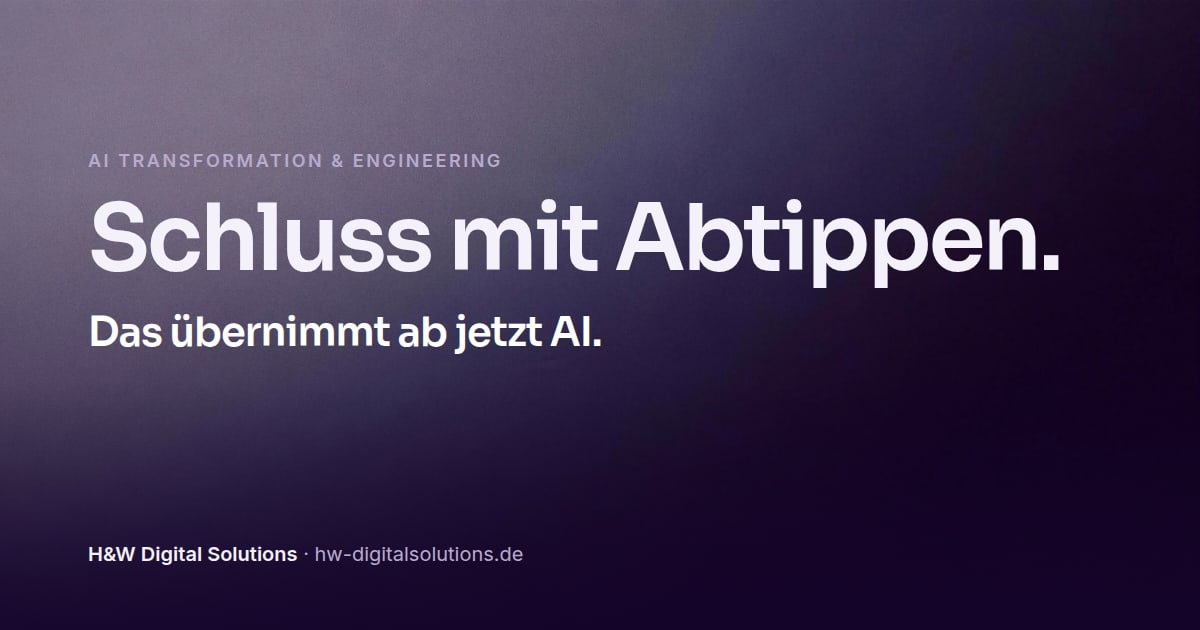
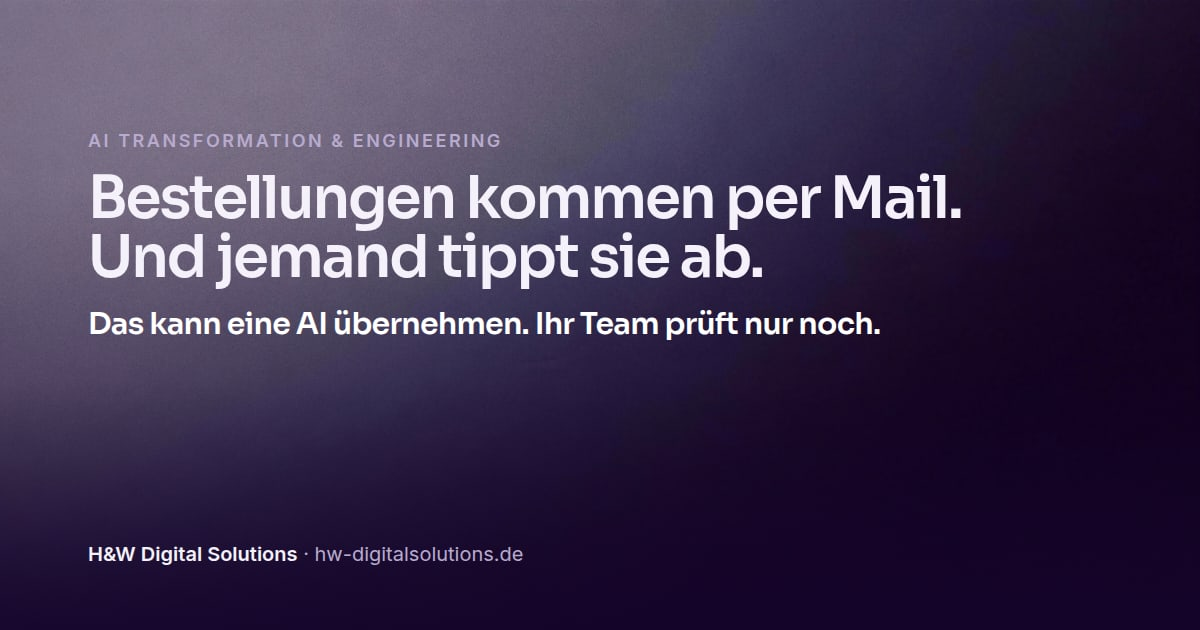
Start page copy: human voice, concrete scene in the hero
Founder feedback: the start page must sound human, not like AI
callouts. Hero rewritten as a scene from the business: orders arrive
by mail and someone types them in; an AI can take that over and the
team only checks. Objection hooks and the promise lede become whole
sentences instead of two-beat slogans; the closing CTA and the contact
lede say plainly what happens in the 30 minutes. Software teaser as a
sentence. Copy rhythm rule documented with the patterns taken from
Systango, Attio and Sana and the founders' correction on slogans.
Hero headline sized to hold two lines on desktop; OG image re-rendered.

Claude-Session: https://claude.ai/code/session_01WNik2r3KY3SBBWXV1w1yzj

Changed region(s): [[0.0617, 0.2111, 0.8942, 0.4524], [0.0617, 0.4825, 0.74, 0.573]]

diff --git a/hw-site/src/data/content.ts b/hw-site/src/data/content.ts
@@ -18,13 +18,18 @@ export const hero = {
   // Hook v6 (2026-09-18, Gründer: „viel kürzer, nicht alle Pain Points auf
   // einmal“): ein Schmerz, drei Wörter. Abtippen von Hand kennt jeder Betrieb;
   // „Schluss mit“ ist die Figur der Gründer (Souveränität).
-  headline: "Schluss mit Abtippen.",
+  // Hook v7 (2026-09-18, Gründer: „menschlicher, keine klassischen AI-Formulierungen,
+  // die wie ein Callout klingen; ‚dort, wo Ihr Team von Hand überträgt‘ ist künstlich
+  // unspezifisch“): eine konkrete Szene aus dem Betrieb, so gesagt, wie man es sagt.
+  headline: "Bestellungen kommen per Mail.\nUnd jemand tippt sie ab.",
   // Claim v2 (2026-09-18): Sieger des Claim-Panels für diese Headline; das
   // englische Motto „From Process to Production.“ war den Gründern zu corporate.
   // Claim v3: löst die Headline auf, ohne Abstraktum.
-  claim: "Das übernimmt ab jetzt AI.",
+  // Claim v4: die Rolle danach, ohne Parole.
+  claim: "Das kann eine AI übernehmen. Ihr Team prüft nur noch.",
   // v5 (2026-09-18): ein Satz, der Win zum Hook („der eine Ablauf“ statt Meeting-Gerede).
-  description: "Wir bauen AI dort ein, wo Ihr Team heute von Hand überträgt: Bestellungen, Angebote, Rechnungen. Und bleiben, bis es läuft.",
+  // v6: konkret, wo und wie; kein „dort, wo“.
+  description: "Wir bauen sie in Ihr System ein, mit Ihren Daten und Ihren Regeln. Und wir bleiben, bis es im Alltag läuft.",
   primaryCta: { label: "Kostenloses Erstgespräch", href: "/kontakt" },
   secondaryCta: { label: "So arbeiten wir", href: "/vorgehen" },
 } as const;
@@ -45,10 +50,12 @@ export const expertise = {
 } as const;
 
 export const promise = {
-  short: "Wir finden nicht nur Ihre AI Use Cases. Wir setzen sie um.",
+  // v10 (2026-09-18, Copy-Muster nach Systango: Diagnose als Frage, ohne Jargon wie „Use Cases“).
+  short: "Sie haben AI im Haus. Warum merkt der Alltag nichts davon?",
   // Einordnung ohne Zahlen. Recherche und Quellen: .agents/product-marketing.md,
   // Abschnitt „Problems & Pain Points“ (v8, 2026-09-18). Kurzfassung v9.
-  lede: "Es scheitert selten am Modell. Vier Einwände, vier Antworten.",
+  // v11 (Gründer: menschlicher, keine Callout-Sätze).
+  lede: "Die meisten Betriebe haben inzwischen Tools. Was fehlt, ist ein Ablauf, der damit läuft.",
   // Vier Einwände in Kundensprache: Zitat, Hook, ein Satz, passender CTA.
   // Die Senior-Zusage steht als eigene Szene darüber (`expertise`).
   // `data`: ein belegter Zahlenpunkt je Einwand (v11, Gründer: „Zahlen geben
@@ -59,32 +66,32 @@ export const promise = {
   objections: [
     {
       quote: "Wir nutzen doch schon AI.",
-      hook: "Einzelne nutzen AI. Ihr Betrieb nicht.",
-      text: "Alle machen es anders, niemand misst den Nutzen. Wir machen daraus einen festen Ablauf für alle.",
+      hook: "Ein paar Kollegen nutzen AI. Der Betrieb läuft wie vorher.",
+      text: "Jeder hat sein eigenes Tool, und niemand weiß, was es bringt. Wir machen daraus einen Ablauf, der für alle gilt.",
       cta: { label: "Ihren Stand klären", href: "/kontakt" },
       viz: "align" as const,
       data: { value: 78, unit: "%", label: "der AI-Nutzer bringen eigene Tools mit zur Arbeit. Ohne Vorgabe von oben", chart: "ring" as const, series: [{ v: 78, name: "" }], source: "Work Trend Index 2024, Microsoft und LinkedIn" },
     },
     {
       quote: "Dafür haben wir weder Leute noch Zeit.",
-      hook: "Wir bringen beides mit. Und geben es weiter.",
-      text: "Wir bauen die Lösung und zeigen Ihrem Team, wie es sie selbst weiterführt.",
+      hook: "Wir bringen beides mit, und Ihr Team lernt es von uns.",
+      text: "Wir bauen die Lösung mit Ihnen zusammen und bleiben, bis Ihr Team sie ohne uns weiterführt.",
       cta: { label: "So befähigen wir Ihr Team", href: "/vorgehen#phasen" },
       viz: "handover" as const,
       data: { value: 66, unit: "%", label: "der Unternehmen fehlt die Zeit für Digitalisierung, 70 % fehlen die Fachkräfte", chart: "bars" as const, series: [{ v: 66, name: "Zeit" }, { v: 70, name: "Fachkräfte" }], source: "Bitkom 2026, 604 Unternehmen ab 20 Beschäftigte" },
     },
     {
       quote: "Rechnet sich das überhaupt?",
-      hook: "Das sehen Sie, bevor wir bauen.",
-      text: "Wir rechnen jedes Vorhaben vorher durch. Gebaut wird nur, was sich lohnt.",
+      hook: "Wir rechnen es vorher durch, und dann entscheiden Sie.",
+      text: "Was es bringt, was es kostet, was es braucht: Das liegt auf dem Tisch, bevor wir eine Zeile bauen.",
       cta: { label: "Wie wir bewerten", href: "/leistungen" },
       viz: "rank" as const,
       data: { value: 59, unit: "%", label: "der Führungskräfte können den Nutzen von AI nicht beziffern. 60 % fehlt ein Plan", chart: "bars" as const, series: [{ v: 59, name: "Nutzen unklar" }, { v: 60, name: "Kein Plan" }], source: "Work Trend Index 2024" },
     },
     {
       quote: "Der Pilot lief. Mehr nicht.",
-      hook: "Wir bauen dort ein, wo Ihr Team arbeitet.",
-      text: "Direkt in Ihre Systeme, mit Datenschutz von Anfang an. Wo es läuft, entscheiden Sie.",
+      hook: "Wir bauen es in die Systeme ein, mit denen Ihr Team jeden Tag arbeitet.",
+      text: "Mit Datenschutz von Anfang an. Und wo die Lösung läuft, entscheiden Sie.",
       cta: { label: "Was wir selbst bauen", href: "/leistungen" },
       viz: "pilot" as const,
       data: { value: 41, unit: "%", label: "der Unternehmen setzen AI ein. 48 % planen und diskutieren noch", chart: "stack" as const, series: [{ v: 41, name: "im Einsatz" }, { v: 48, name: "geplant" }], source: "Bitkom 2026, 604 Unternehmen ab 20 Beschäftigte" },
@@ -216,7 +223,7 @@ export const sovereignty = {
   points: [
     { title: "Abhängig bei jedem Schritt", text: "Jede Änderung ein Ticket." },
     { title: "Wissen wandert ab", text: "Geht der Anbieter, geht das Wissen." },
-    { title: "Kontrolle zurück", text: "Ihr Team führt die Lösung selbst weiter." },
+    { title: "Ihr Team übernimmt", text: "Lösung, Wissen und Zugänge bleiben bei Ihnen." },
   ],
 } as const;
 
@@ -232,7 +239,7 @@ export const sovereignty = {
 export const software = {
   eyebrow: "Software und Web",
   heading: "Nicht jedes Projekt beginnt bei AI.",
-  ledeShort: "Software, Plattformen, Websites. Gebaut von erfahrenen Entwicklern und unseren Partnern, mit AI-Unterstützung.",
+  ledeShort: "Manchmal braucht es zuerst eine Software oder eine Website. Die bauen wir, mit erfahrenen Entwicklern, unseren Partnern und AI-Unterstützung.",
   lede: "Manchmal muss zuerst eine Software oder eine Website gebaut werden. Das machen wir: mit erfahrenen Entwicklern und unseren Partnern, mit AI-Unterstützung und klaren Regeln.",
   offers: [
     { title: "Software und Plattformen", text: "Anwendungen, Schnittstellen, Anbindung an Ihre Systeme." },

diff --git a/hw-site/.agents/product-marketing.md b/hw-site/.agents/product-marketing.md
@@ -180,7 +180,7 @@ Zielkunden haben in der Regel **keinen AI-Prozess und keine AI-Lösung**. Jede C
 
 **Freigegebene Formulierungen:**
 - Button: „Kostenloses Erstgespräch“ / „Kostenloses Erstgespräch vereinbaren“
-- Schluss-CTA: „Keine leeren Versprechen. Ein Gespräch, das sich lohnt.“ mit „Kostenlos und in 30 Minuten: Wir entdecken mit Ihnen, wo AI in Ihren Abläufen einen Hebel hat, und sagen ehrlich, wo nicht. Ihre Zeit wird nicht verschwendet.“
+- Schluss-CTA (v2, 2026-09-18): „Ein Gespräch. Ein Ablauf. Eine ehrliche Antwort.“ mit „30 Minuten, kostenlos. Sie bringen einen Ablauf mit, der Ihr Team bremst. Wir sagen Ihnen, ob AI dort etwas bringt. Und wenn nicht, sagen wir das auch.“ (gleicher Text als Lede der Kontaktseite). Abgelöst: „Keine leeren Versprechen. Ein Gespräch, das sich lohnt.“
 - Kontakt-Lede: „30 Minuten, kostenlos, ein konkreter Ablauf: Wir entdecken Ihre Potenziale und sagen ehrlich, wo sich AI lohnt und wo nicht.“
 
 ## Messaging-Baustein: Hero-Hook (2026-09-17)
@@ -195,6 +195,8 @@ Zielkunden haben in der Regel **keinen AI-Prozess und keine AI-Lösung**. Jede C
 - Beschreibung (v4, 2026-09-18): „Ihr Team sucht, wartet, tippt doppelt. Wir bauen AI genau dort ein.“ (Gründer: „knackiger Hook, max. 2 Sätze“; v3 „Ihr Team sucht, wartet und erfasst doppelt, während alle über AI reden …“ und v2 „Sie brauchen keine AI-Strategie …“ abgelöst)
 
 **Abgelöst:** „AI, die in Ihrem Betrieb läuft. Nicht auf Folien.“ (zu lang, Kontrast nur gegen Beratung, nicht gegen den Einstiegsschmerz). Der Folien-Kontrast lebt weiter in „Der Unterschied“.
+
+- Hook v7 (2026-09-18, Gründer: menschlicher, keine Callout-Formulierungen): Headline „Bestellungen kommen per Mail. Und jemand tippt sie ab.“ (zwei Zeilen), Claim „Das kann eine AI übernehmen. Ihr Team prüft nur noch.“, Beschreibung „Wir bauen sie in Ihr System ein, mit Ihren Daten und Ihren Regeln. Und wir bleiben, bis es im Alltag läuft.“ Abgelöst: v6 „Schluss mit Abtippen.“ / „Das übernimmt ab jetzt AI.“ (Gründer: künstlich wie ein Callout). Alternativen in derselben Tonlage: „Angebote schreibt bei Ihnen noch jemand von Hand? Das geht inzwischen anders.“, „Jede Rechnung wird bei Ihnen zweimal angefasst. Einmal reicht.“
 
 ## Messaging-Baustein: Aktivität ist kein Ergebnis (2026-09-17)
 
@@ -262,6 +264,18 @@ Zielkunden haben in der Regel **keinen AI-Prozess und keine AI-Lösung**. Jede C
 
 **Verlinkt aus:** Souveränität (Startseite, zwei Karten „Showcase ansehen“) und Software-Sektion (Sekundär-CTA).
 
+## Regel: Copy-Rhythmus (2026-09-18)
+
+**Kern (Gründer):** „Inspire your copywriting a bit from Systango, Attio and Sana.“ Übernommen werden Muster, keine Sätze und keine Zahlen.
+
+- **Diagnose als Frage (Systango):** Die Sektion beginnt mit dem Widerspruch, den der Käufer selbst spürt, nicht mit unserem Angebot. Muster: „Sie haben X. Warum passiert Y nicht?“ Beispiel Versprechen: „Sie haben AI im Haus. Warum merkt der Alltag nichts davon?“ Lede als Gegensatz „viele haben Tools, wenige einen Ablauf“.
+- **Zwei Takte, zwei Rollen (Attio):** Hooks als zwei kurze Sätze, oft mit Rollenwechsel wir/Sie. Beispiele: „Wir rechnen vor. Sie entscheiden.“, „Wir bringen beides mit. Ihr Team behält es.“, „Wer Sie überzeugt, baut auch.“
+- **Kleine Ergebnis-Titel (Attio, Sana):** Karten- und Punkt-Titel sind ein Ergebnis in zwei bis vier Wörtern, darunter ein Satz. Beispiel: „Ihr Team übernimmt“ + „Lösung, Wissen und Zugänge bleiben bei Ihnen.“
+- **Aus dem Pilot wird Alltag:** Ergebnis-Zeilen benennen den Zustand danach, nicht die Tätigkeit.
+- **CTA als Zusage, nicht als Bitte:** Schluss-CTA in drei Takten „Ein Gespräch. Ein Ablauf. Eine ehrliche Antwort.“; Buttons bleiben „Kostenloses Erstgespräch“.
+- **Nicht übernommen:** englische Superlative („superintelligence“, „infinitely“), Prozentangaben als Schlagzeile (Systango), Produktnamen als Kategorie.
+- **Korrektur der Gründer (noch am selben Tag):** Zwei-Takt-Zeilen und Triaden klingen im Deutschen schnell wie ein AI-Callout („Schluss mit Abtippen. Das übernimmt ab jetzt AI.“, „Einzelne nutzen AI. Ihr Betrieb nicht.“, „Ein Gespräch. Ein Ablauf. Eine ehrliche Antwort.“). Deshalb gilt vor dem Rhythmus: **so schreiben, wie man es im Gespräch sagt.** Ganze Sätze mit Nebensatz sind erlaubt und erwünscht („Wir rechnen es vorher durch, und dann entscheiden Sie.“). Konkrete Szene statt Abstraktum („Bestellungen kommen per Mail. Und jemand tippt sie ab.“ statt „dort, wo Ihr Team von Hand überträgt“). Keine Parolen mit „Schluss mit“, „ab jetzt“, „nicht X, sondern Y“ als Schlagzeile.
+
 ## Regel: Käufersprache (2026-09-18)
 
 **Kern (Gründer):** Käufer sind Geschäftsführung und Fachbereich, keine Entwickler. Jede Zeile muss ohne Vorwissen verständlich sein: kurze Sätze, konkrete Handlungen („Ihr Team ändert Texte selbst“), Nutzen vor Methode. Technik wird nur genannt, wenn der Käufer sie kennt (WordPress, Typo3, Google) oder danach fragt.
@@ -298,7 +312,7 @@ Zielkunden haben in der Regel **keinen AI-Prozess und keine AI-Lösung**. Jede C
 **Tonalität:** Sie-Form. Die Zahl „10.000“ ist rhetorisch und wird auf der Website nicht verwendet (keine erfundenen Größen). Keine Abwertung von Tools oder anderen Dienstleistern, das Muster wird benannt, die Wertung liefert der Leser.
 
 **Freigegebene Formulierungen:**
-- Sektion 02 der Startseite (v2, 2026-09-18, direkt nach dem Versprechen; Gründer: „Holen Sie sich Ihre Souveränität zurück“ war zu abstrakt, der Pain ist wichtiger und gehört höher): Headline „Zu viele Dienstleister. Zu wenig Kontrolle.“, Lede „Für jede Aufgabe ein Anbieter, für jedes Werkzeug ein Vertrag, und niemand kennt den ganzen Ablauf. Ihr Team wartet auf Tickets, statt zu arbeiten.“ Punkte: „Abhängig bei jedem Schritt“, „Wissen wandert ab“, „Kontrolle zurück“ (Antwort, dunkle Zelle; endet mit „Wo die Lösung läuft, entscheiden Sie.“). CTA-Zeile „Welcher Ablauf hängt bei Ihnen an zu vielen Anbietern?“
+- Sektion 02 der Startseite (v2, 2026-09-18, direkt nach dem Versprechen; Gründer: „Holen Sie sich Ihre Souveränität zurück“ war zu abstrakt, der Pain ist wichtiger und gehört höher): Headline „Zu viele Dienstleister. Zu wenig Kontrolle.“, Lede „Für jede Aufgabe ein Anbieter, für jedes Werkzeug ein Vertrag, und niemand kennt den ganzen Ablauf. Ihr Team wartet auf Tickets, statt zu arbeiten.“ Punkte: „Abhängig bei jedem Schritt“, „Wissen wandert ab“, „Ihr Team übernimmt“ (Antwort, dunkle Zelle: „Lösung, Wissen und Zugänge bleiben bei Ihnen.“; v3, 2026-09-18, vorher „Kontrolle zurück“). CTA-Zeile „Welcher Ablauf hängt bei Ihnen an zu vielen Anbietern?“
 - Timeline-Headline danach als Antwort: „Zwölf Schritte, ein Team, keine Übergabe.“ (löst „Schluss mit einem Dienstleister pro Schritt.“ ab, das jetzt als Pain in Sektion 02 lebt)
 - Hook (Souveränitäts-Sektion): „Holen Sie sich Ihre Souveränität zurück.“
 - Lede: „… Mit AI-Workflows, die Ihre Prozesse richtig nutzen und in Ihrem Haus laufen, liegt die Kontrolle wieder bei Ihnen.“
@@ -401,6 +415,8 @@ Konkrete Szenarien dürfen genutzt werden, wenn sie als Beispiel gekennzeichnet 
 
 ## Changelog
 *Newest first. One line per revision: what changed and why.*
+- v32 (2026-09-18) — Startseite menschlicher (Gründer: „muss menschlicher klingen, keine klassischen AI-Formulierungen, die künstlich wie ein Callout klingen“, Beispiele „Schluss mit Abtippen. / Das übernimmt ab jetzt AI.“, „dort ein, wo Ihr Team von Hand überträgt“, „Einzelne nutzen AI. Ihr Betrieb nicht.“): Hero v7 als Szene „Bestellungen kommen per Mail. Und jemand tippt sie ab.“, Claim „Das kann eine AI übernehmen. Ihr Team prüft nur noch.“, Beschreibung „Wir bauen sie in Ihr System ein, mit Ihren Daten und Ihren Regeln. Und wir bleiben, bis es im Alltag läuft.“ Hooks als ganze Sätze: „Ein paar Kollegen nutzen AI. Der Betrieb läuft wie vorher.“, „Wir bringen beides mit, und Ihr Team lernt es von uns.“, „Wir rechnen es vorher durch, und dann entscheiden Sie.“, „Wir bauen es in die Systeme ein, mit denen Ihr Team jeden Tag arbeitet.“ Lede „Die meisten Betriebe haben inzwischen Tools. Was fehlt, ist ein Ablauf, der damit läuft.“ Schluss-CTA „Bringen Sie einen Ablauf mit. Wir sagen Ihnen, ob AI dort etwas bringt.“ (der dreitaktige „Ein Gespräch. Ein Ablauf. Eine ehrliche Antwort.“ war selbst ein Callout). Software-Teaser als Satz. OG-Bild neu gerendert.
+- v31 (2026-09-18) — Copy-Rhythmus nach Systango, Attio und Sana (Gründer: „inspire your copywriting a bit“): Versprechen-Headline als Diagnosefrage „Sie haben AI im Haus. Warum merkt der Alltag nichts davon?“ (löst „Wir finden nicht nur Ihre AI Use Cases. Wir setzen sie um.“ ab, auch wegen Jargon), Lede „Tools haben viele. Einen Ablauf, der damit läuft, haben wenige.“; Hooks in zwei Takten „Wir bringen beides mit. Ihr Team behält es.“, „Wir rechnen vor. Sie entscheiden.“, „Aus dem Pilot wird Alltag.“; Unabhängigkeits-Punkt „Ihr Team übernimmt“; Schluss-CTA „Ein Gespräch. Ein Ablauf. Eine ehrliche Antwort.“ mit neuem Text (auch Kontaktseite). Regel „Copy-Rhythmus“ ergänzt.
 - v30 (2026-09-18) — Startseite gestrafft (Gründer: „weg von Hauptseite, nur auf Subseiten“): „So arbeiten wir“ (zwölf Schritte, Chain) und „Womit wir bauen“ (Capabilities) von der Startseite entfernt; sie stehen weiter auf Vorgehen und Leistungen. Die Startseite führt jetzt in fünf Schritten zum CTA: Versprechen, Unabhängigkeit, Zehn Schritte, Der Unterschied, Software und Web.
 - v29 (2026-09-18) — Showcase-Bilder nach dem Hero-Grundsatz neu erzeugt (Gründer: „apply the same Grundsatz“): statt glänzender isometrischer 3D-Szenen jetzt matte Clay-Szenen in Flieder, Mauve und Aubergine mit Filmkorn und weichem Licht von links oben, ohne Glow und Neon, aber mit konkretem Motiv: Website-Anordnung aus Browserfenster, Inhaltskarten und Panels („Ihr Team pflegt sie selbst“) und fünf Bausteine auf einem Raster mit Verbindungen („Mehrere Partner, ein Standard“). Ein erster, rein abstrakter Versuch (leeres Blatt, Punktraster) war den Gründern „zu simplistisch für eine Showcase-Karte“. GPT Image 2.5 hoch plus 4K-Upscale; Nano Banana 2 als Vergleich verworfen.
 - v28 (2026-09-18) — Hero-Hintergrund als Standbild aus dem Gründer-Referenzvideo abgeleitet: abstrakter, analoger Lichtverlauf in der Lila-Familie (mattes Flieder links oben → Aubergine rechts/unten, Filmkorn), keine Objekte, kein Glow. Das Licht liegt hinter der Copy und lenkt den Blick auf Headline und CTA; Overlay im Hero entsprechend verschlankt. Erzeugt mit Higgsfield (GPT Image 2.5 hoch, 4K-Upscale; Nano Banana 2/Flash als Vergleich verworfen wegen Lichtkanten, Regenbogen und Bokeh).

diff --git a/hw-site/DESIGN.md b/hw-site/DESIGN.md
@@ -213,6 +213,7 @@ Alle Kontrastwerte wurden am 2026-09-17 mit einem kleinen Node-Skript nach WCAG 
 
 | Datum | Änderung |
 |---|---|
+| 2026-09-18 | Hero-Copy v7 als Szene in zwei Zeilen (`white-space: pre-line`), Claim und Beschreibung als ganze Sätze; Schluss-CTA-Headline länger (ein Satz mit Nebensatz), `max-width` der CTA-Headline unverändert. OG-Bild neu gerendert. |
 | 2026-09-18 | Startseite gestrafft (Gründer: „weg von Hauptseite, nur auf Subseiten“): Sektionen „So arbeiten wir“ (Chain, zwölf Schritte) und „Womit wir bauen“ (Capabilities) entfernt; beide bleiben auf `/vorgehen` und `/leistungen`. Folge jetzt Hero → Wer bei uns baut → Versprechen → Unabhängigkeit → Zehn Schritte → Der Unterschied → Software und Web → CTA; „Zehn Schritte“ auf helles Papier, damit sich die Flächen weiter abwechseln. |
 | 2026-09-18 | Showcase-Karten folgen dem Hero-Grundsatz: matte Clay-Szenen (Flieder, Mauve, `--ink`, Filmkorn, weiches Licht von links oben, kein Glow) mit konkretem Motiv (Website-Anordnung, fünf verbundene Bausteine auf einem Raster) statt der glänzenden isometrischen 3D-Szenen. Rein abstrakte Varianten (Blatt, Punktraster) verworfen: zu leer für eine Showcase-Karte. GPT Image 2.5, 4K-Upscale, 1620 × 1080 WebP in `src/assets/showcases/`; `object-position: 50% 22%`, damit das Motiv im 4:3-Zuschnitt mobil im Bild bleibt. |
 | 2026-09-18 | Neues Hero-Bild als Standbild (Gründer: „high quality still … purple palette … professional and subtle without too much glow“): generierter Lichtverlauf Flieder → `--ink` mit Filmkorn (GPT Image 2.5, 4K-Upscale) statt des bisherigen Motivs. Schleier verschlankt (radiale Vignette entfernt, Verläufe von links und oben abgeschwächt), Filter von `saturate(.72) brightness(.78)` auf `saturate(.9) brightness(.92)`, `object-position` 38 % 40 % (mobil 22 %). Verglichen wurden zwölf Renders aus GPT Image 2.5, Nano Banana 2 und Nano Banana Flash; verworfen: sichtbare Lichtkanten und Regenbogen-Streifen (zu viel Glow), Bokeh-Flecken, gesättigtes Violett. |
